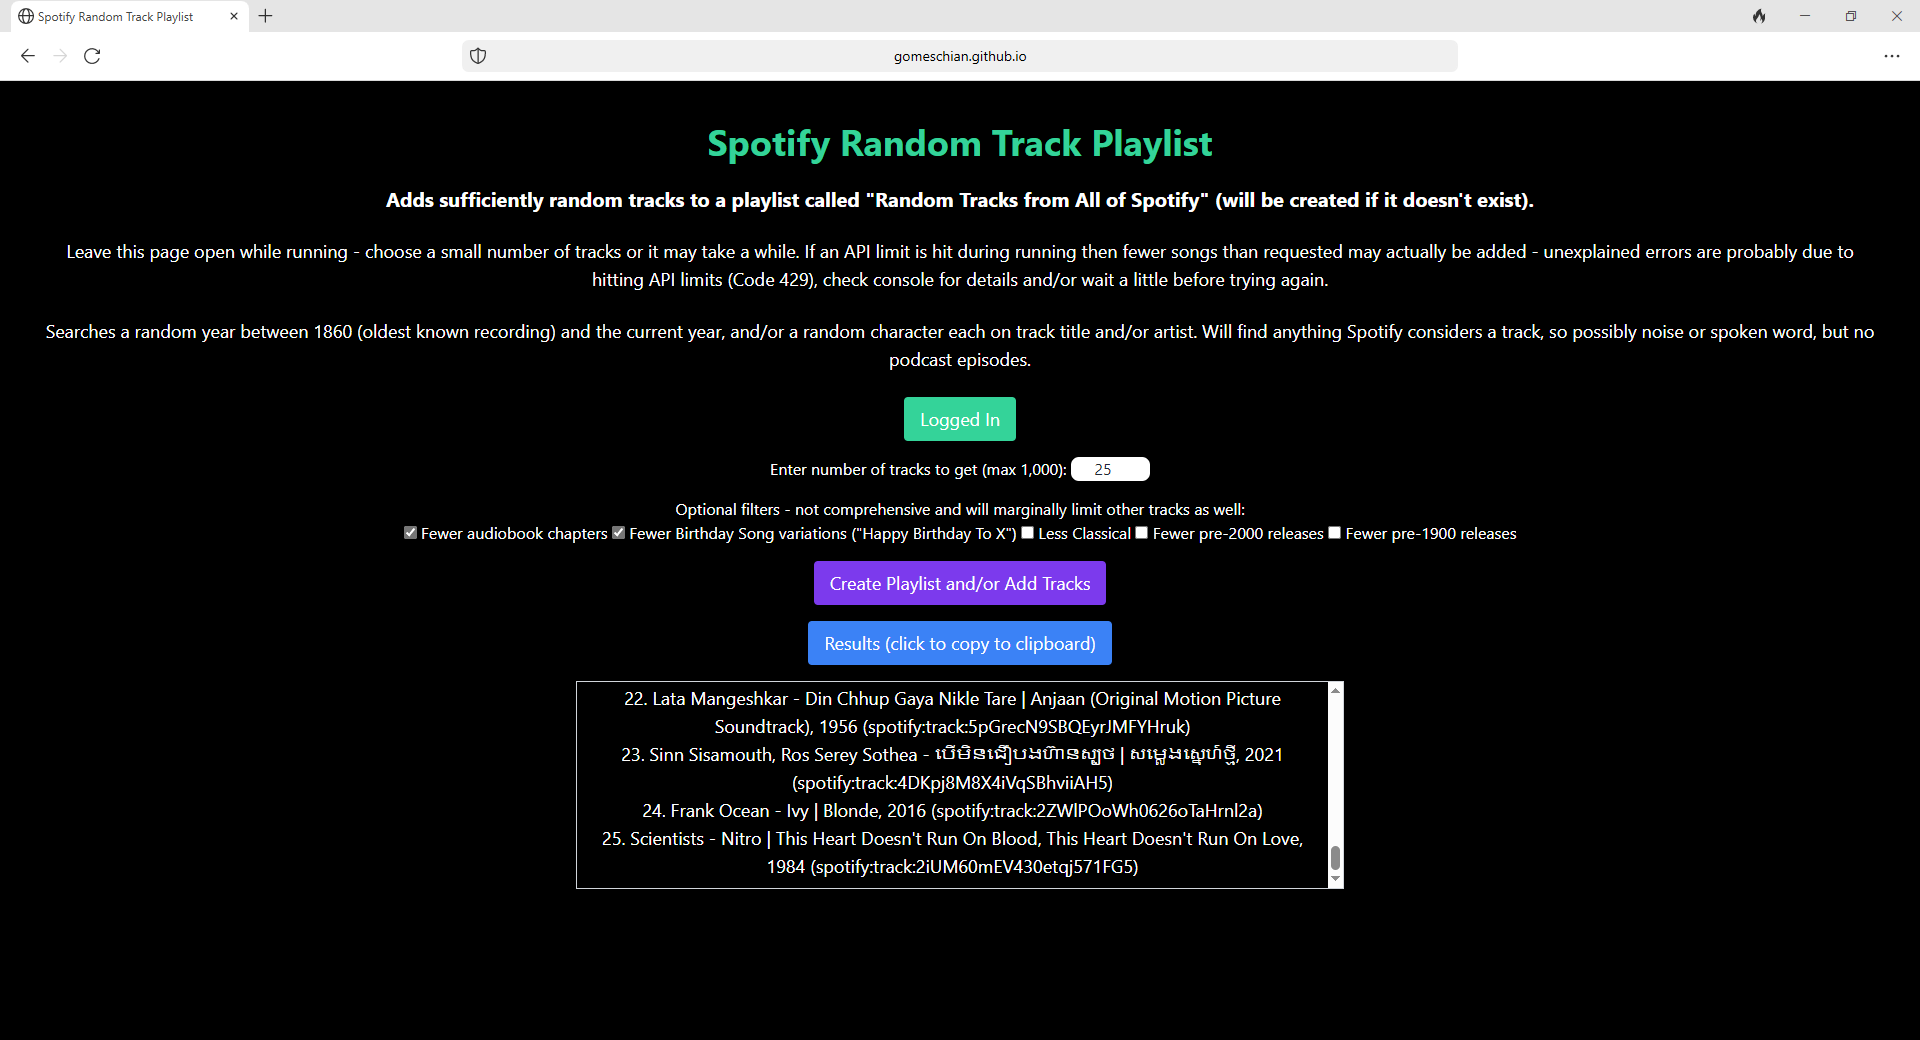
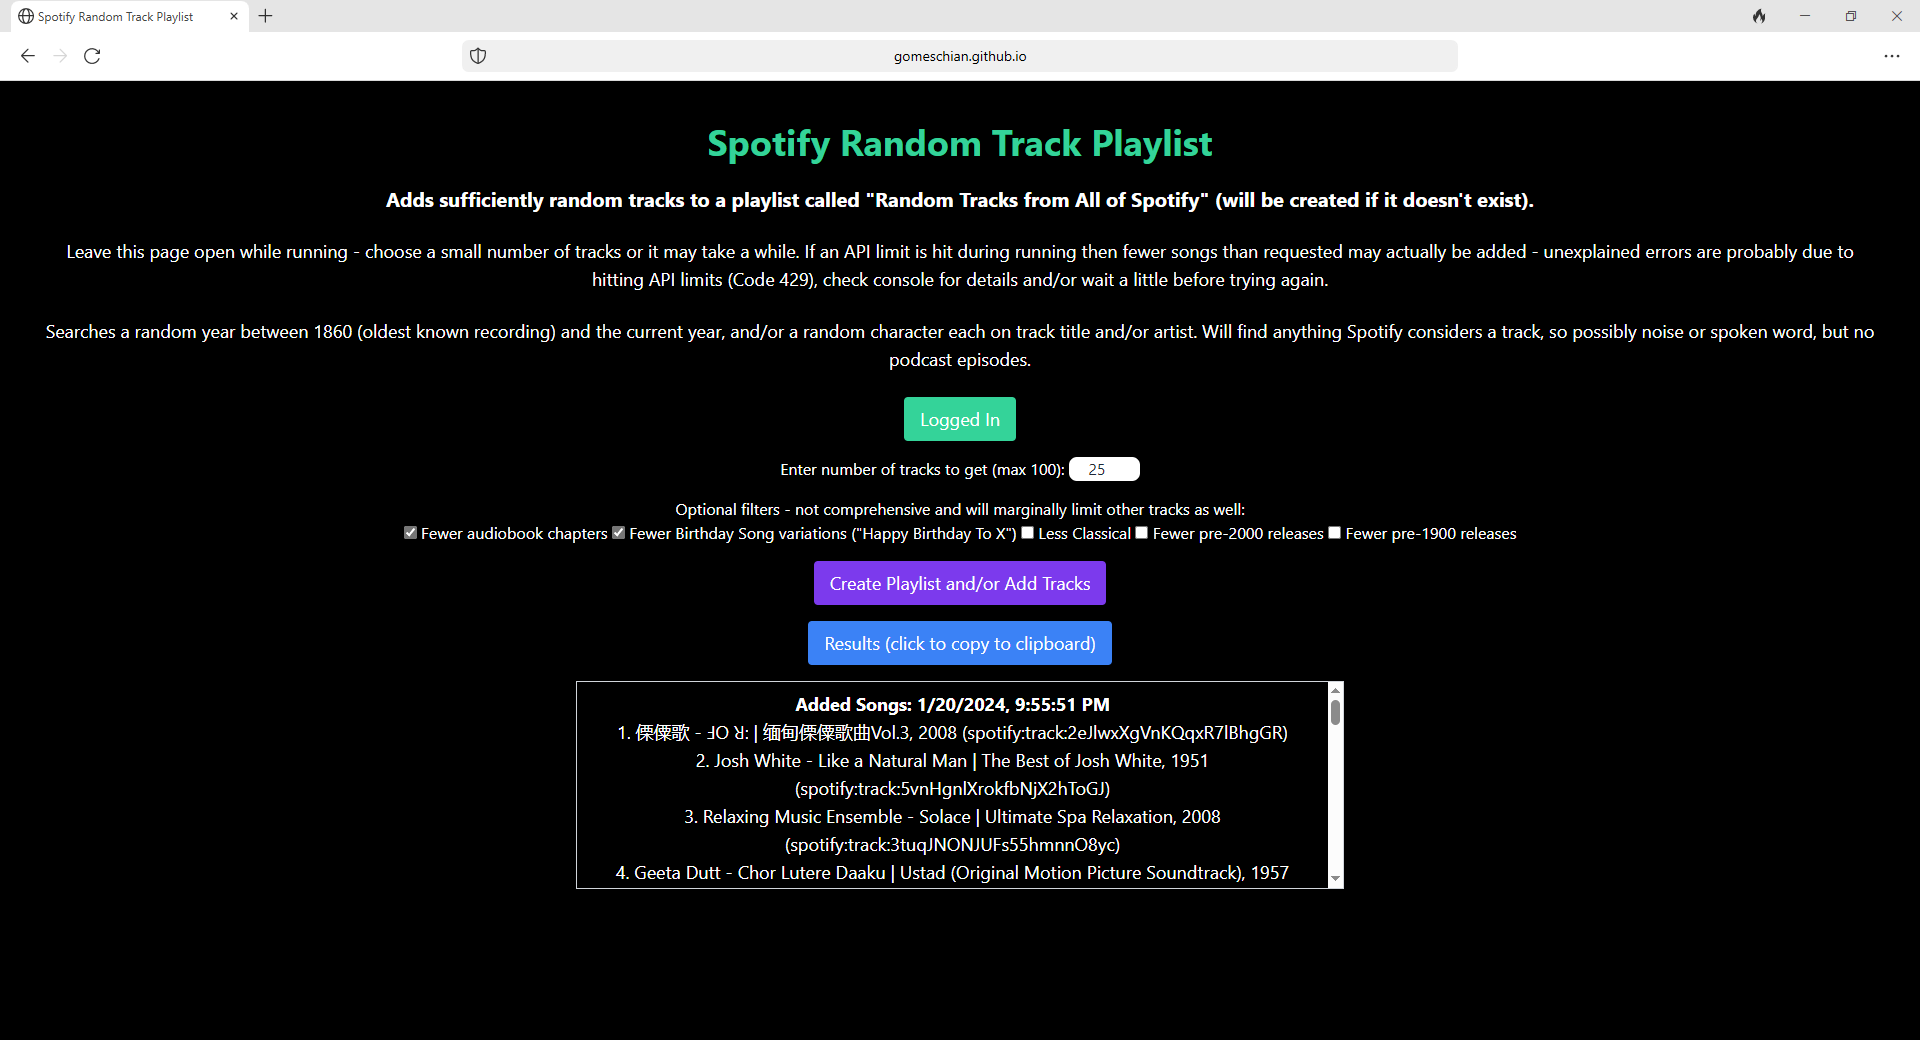
Update description and screenshot.

Changed region(s): [[0.3125, 0.6462, 0.6875, 0.8615], [0.4062, 0.4308, 0.5625, 0.4615], [0.5938, 0.4308, 0.625, 0.4615]]

diff --git a/index.html b/index.html
@@ -24,8 +24,8 @@
         All of Spotify" (will be created if it doesn't exist).
       </p>
       <p class="mb-4 sm:mb-6 text-xs sm:text-lg text-center">
-        Leave this page open while running - choose a small number of tracks or
-        it may take a while. If an API limit is hit during running then fewer
+        Leave this page open while running - choosing a large number of tracks
+        may take a few minutes. If an API limit is hit during running then fewer
         songs than requested may actually be added - unexplained errors are
         probably due to hitting API limits (Code 429), check console for details
         and/or wait a little before trying again.
